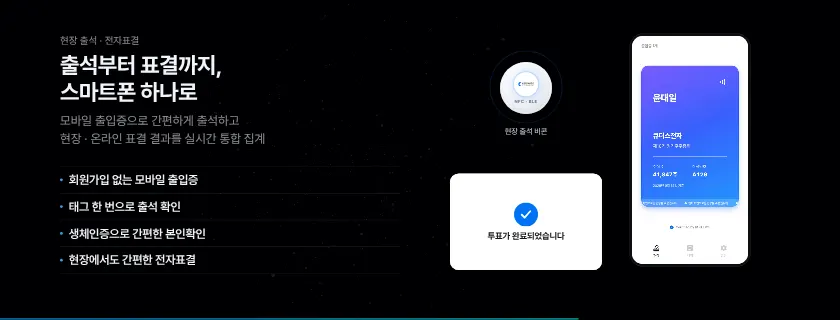
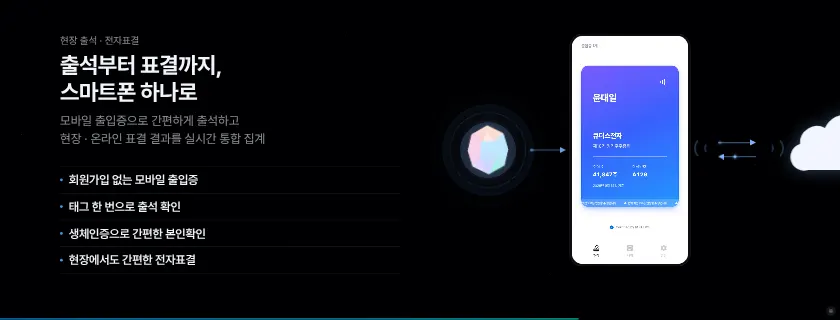
세션4 K24b 오른쪽 BLE 비콘 동작 원리 레이아웃 — 비콘 파동 → 휴대폰 ⇄ 클라우드(오른쪽 끝 2/3), 투표 카드 삭제
Claude-Session: https://claude.ai/code/session_01Mn7NmyW5iujmmHnaRBFKBZ

Changed region(s): [[0.5262, 0.0938, 0.8976, 0.8438], [0.9286, 0.3438, 1.0, 0.5625]]

diff --git a/session4.html b/session4.html
@@ -2133,6 +2133,63 @@ html.r169 #K24a .k24map{left:1540px!important;top:50px!important}
 #K26 .k26p .sc{padding-top:0!important}
 #K26 .k26p .sc::before{z-index:2}
 #K26 .k26p video{object-position:50% 0!important}
+
+/* 11/27 22:10 K24b 오른쪽: BLE 비콘 동작 원리 — 비콘(파동) → ID → 휴대폰 ⇄ 클라우드(오른쪽 끝 2/3만), 글자 없이 */
+#K24b .k24fl{position:absolute;left:2150px;top:170px;width:2050px;height:1160px;overflow:hidden}
+#K24b .k24fl .k24bv{left:700px!important;top:0!important}
+#K24b .k24fl .bk{position:absolute;left:150px;top:430px;width:300px;height:300px;display:flex;align-items:center;justify-content:center}
+#K24b .k24fl .bk .gm{position:relative;width:170px;height:204px;filter:drop-shadow(0 0 40px rgba(180,200,255,.45));z-index:2}
+#K24b .k24fl .bk .o{position:absolute;inset:-10px;border-radius:50%;border:3px dotted rgba(140,180,255,.45)}
+#K24b .k24fl .bk .r{position:absolute;inset:20px;border-radius:50%;background:radial-gradient(circle,rgba(90,162,255,.0) 40%,rgba(90,162,255,.28) 70%,rgba(90,162,255,0) 72%);opacity:0}
+.s.cur#K24b .k24fl .bk .r{animation:k24r 2.4s ease-out calc(var(--k)*.8s) infinite}
+@keyframes k24r{0%{transform:scale(.6);opacity:.9}100%{transform:scale(1.9);opacity:0}}
+.s.cur#K24b .k24fl .bk .gm{animation:k24gm 4s ease-in-out infinite}
+@keyframes k24gm{0%,100%{transform:translateY(0) rotate(-2deg)}50%{transform:translateY(-10px) rotate(2deg)}}
+.s.cur#K24b .k24fl .bk .o{animation:k24o 30s linear infinite}
+@keyframes k24o{to{transform:rotate(360deg)}}
+#K24b .k24fl .ar{position:absolute;height:6px}
+#K24b .k24fl .ar span{position:absolute;left:0;right:22px;top:2px;height:3px;background:rgba(140,190,255,.35)}
+#K24b .k24fl .ar span::after{content:"";position:absolute;left:0;top:-4px;width:12px;height:12px;border-radius:50%;background:#7fb6ff;box-shadow:0 0 18px #4fa0ff}
+#K24b .k24fl .ar b{position:absolute;right:0;top:-9px;width:0;height:0;border-left:24px solid #7fb6ff;border-top:12px solid transparent;border-bottom:12px solid transparent}
+#K24b .k24fl .a1{left:480px;top:577px;width:190px}
+.s.cur#K24b .k24fl .ar span::after{animation:k24dot 1.4s ease-in-out infinite}
+@keyframes k24dot{0%{left:0;opacity:0}15%{opacity:1}85%{opacity:1}100%{left:calc(100% - 12px);opacity:0}}
+#K24b .k24fl .ar2{position:absolute;left:1430px;top:530px;width:200px;height:100px}
+#K24b .k24fl .a2{left:0;top:20px;width:200px}
+#K24b .k24fl .a3{left:0;top:76px;width:200px;transform:scaleX(-1)}
+.s.cur#K24b .k24fl .a3 span::after{animation-delay:.7s}
+#K24b .k24fl .wv{position:absolute;top:520px;width:70px;height:120px}
+#K24b .k24fl .wv i{position:absolute;top:50%;border:6px solid #7fb6ff;border-radius:50%;border-color:transparent #7fb6ff transparent transparent;opacity:.25}
+#K24b .k24fl .wv i:nth-child(1){width:40px;height:40px;margin-top:-26px;left:0}
+#K24b .k24fl .wv i:nth-child(2){width:84px;height:84px;margin-top:-48px;left:-8px}
+#K24b .k24fl .wv.l{left:1340px;transform:scaleX(-1)}
+#K24b .k24fl .wv.r{left:1650px}
+.s.cur#K24b .k24fl .wv i{animation:k24wv 1.4s ease-in-out infinite}
+.s.cur#K24b .k24fl .wv i:nth-child(2){animation-delay:.25s}
+@keyframes k24wv{0%,100%{opacity:.2}50%{opacity:1}}
+#K24b .k24fl .cl{position:absolute;left:1740px;top:420px;width:470px;height:auto;overflow:visible}
+#K24b .k24fl .cl path{fill:#f2f6ff;filter:drop-shadow(0 0 40px rgba(127,182,255,.35))}
+.s.cur#K24b .k24fl .cl{animation:k24cl 5s ease-in-out infinite}
+@keyframes k24cl{0%,100%{translate:0 0}50%{translate:0 -12px}}
+#K24b .k24fl>*:not(.k24bv){opacity:0}
+.s.cur#K24b .k24fl>*:not(.k24bv){animation-name:none;opacity:1;transition:opacity .8s ease .8s}
+
+/* 11/27 22:15 K24b 흐름 요소 크게 — 비콘 · 화살표 · 신호 파동 */
+#K24b .k24fl .bk{left:110px;top:400px;width:360px;height:360px}
+#K24b .k24fl .bk .gm{width:210px;height:252px}
+#K24b .k24fl .ar span{height:5px;top:1px;background:rgba(140,190,255,.5)}
+#K24b .k24fl .ar span::after{width:16px;height:16px;top:-6px}
+#K24b .k24fl .ar b{border-left-width:30px;border-top-width:15px;border-bottom-width:15px;top:-12px}
+#K24b .k24fl .a1{left:500px;width:180px}
+#K24b .k24fl .ar2{left:1440px;width:190px;top:520px}
+#K24b .k24fl .a2,#K24b .k24fl .a3{width:190px}#K24b .k24fl .a3{top:90px}
+#K24b .k24fl .wv{top:500px;width:100px;height:160px}
+#K24b .k24fl .wv i{border-width:9px}
+#K24b .k24fl .wv i:nth-child(1){width:60px;height:60px;margin-top:-39px}
+#K24b .k24fl .wv i:nth-child(2){width:120px;height:120px;margin-top:-69px;left:-10px}
+#K24b .k24fl .wv.l{left:1330px}
+#K24b .k24fl .wv.r{left:1660px}
+#K24b .k24fl .cl{left:1770px;top:400px;width:520px}
 /* ═════ 16:9 버전 (?a=16x9, 11/27) ═════
    ※ 빔프로젝터(led.html?a=16x9) M7-7이 이 모드를 씀. 장을 고치면 ?a=16x9로도 확인하고, 21:8 원본 위치를 바꾸면 아래 html.r169 #Kxx 규칙도 같이 맞출 것.
       R169Z(묶음 축소) 장은 내용 범위를 자동으로 재서 배치하므로 대부분 따라감.
@@ -2590,8 +2647,15 @@ html.r169 #K28p .k28bg{top:800px}
   <p class="sub" style="margin-top:34px">모바일 출입증으로 간편하게 출석하고<br>현장 · 온라인 표결 결과를 실시간 통합 집계</p>
   <ul class="k24bl"><li>회원가입 없는 모바일 출입증</li><li>태그 한 번으로 출석 확인</li><li>생체인증으로 간편한 본인확인</li><li>현장에서도 간편한 전자표결</li></ul>
  </div>
- <div class="k24vk"><div class="bcn"><i class="w"></i><i class="w" style="--k:1"></i><i class="w" style="--k:2"></i><div class="pk"><span class="lg"><img src="assets/s4/kosmos-color.svg" alt=""></span><em>NFC · BLE</em></div><p>현장 출석 비콘</p></div><div class="vcd"><div class="vh"><small>제1호 의안</small><span class="lv">● 표결 중</span></div><b>재무제표 승인의 건</b><div class="ch"><span class="pro">찬성</span><span>반대</span><span>기권</span></div><div class="bt">투표하기</div><p class="dn"><i></i>투표가 완료되었습니다</p></div></div>
- <div class="phone k24bv" style="left:3100px;top:118px;width:706px;height:1364px"><div class="scr"><video class="k24bvid" src="assets/s4/onsite-vote.mp4" poster="assets/s4/onsite-vote.webp" muted loop playsinline preload="auto"></video></div></div>
+ <div class="k24fl">
+  <div class="bk"><i class="r" style="--k:0"></i><i class="r" style="--k:1"></i><i class="r" style="--k:2"></i><i class="o"></i><svg class="gm" viewBox="0 0 200 240"><defs><linearGradient id="k24g1" x1="0" y1="0" x2="1" y2="1"><stop offset="0" stop-color="#ffd6e8"/><stop offset=".5" stop-color="#c9d8ff"/><stop offset="1" stop-color="#9ff0e6"/></linearGradient><linearGradient id="k24g2" x1="1" y1="0" x2="0" y2="1"><stop offset="0" stop-color="#fff3c8"/><stop offset="1" stop-color="#ffc2d6"/></linearGradient><linearGradient id="k24g3" x1="0" y1="0" x2="0" y2="1"><stop offset="0" stop-color="#b7f3ff"/><stop offset="1" stop-color="#d8c8ff"/></linearGradient></defs><polygon points="100,4 176,44 196,120 176,196 100,236 24,196 4,120 24,44" fill="url(#k24g1)"/><polygon points="100,4 176,44 130,80 70,80 24,44" fill="url(#k24g2)" opacity=".9"/><polygon points="70,80 130,80 140,160 100,236 60,160" fill="url(#k24g3)" opacity=".85"/><polygon points="24,44 70,80 60,160 24,196 4,120" fill="#ffd0e4" opacity=".75"/><polygon points="176,44 196,120 176,196 140,160 130,80" fill="#bfe9ff" opacity=".75"/><polygon points="60,160 100,236 24,196" fill="#e9d6ff" opacity=".8"/><polygon points="140,160 176,196 100,236" fill="#a8f0e0" opacity=".8"/><polygon points="70,80 130,80 100,40" fill="#fff" opacity=".55"/></svg></div>
+  <div class="ar a1"><span></span><b></b></div>
+  <div class="phone k24bv" style="left:3100px;top:118px;width:706px;height:1364px"><div class="scr"><video class="k24bvid" src="assets/s4/onsite-vote.mp4" poster="assets/s4/onsite-vote.webp" muted loop playsinline preload="auto"></video></div></div>
+  <div class="wv l"><i></i><i></i></div>
+  <div class="ar2"><div class="ar a2"><span></span><b></b></div><div class="ar a3"><span></span><b></b></div></div>
+  <div class="wv r"><i></i><i></i></div>
+  <svg class="cl" viewBox="0 0 520 320"><path d="M120 280h300a90 90 0 0 0 12-179A120 120 0 0 0 205 70 85 85 0 0 0 80 150a65 65 0 0 0 40 130z"/></svg>
+ </div>
 </section>
 
 <section class="s" id="K24c" data-t="생중계" data-dim="0">

diff --git a/sw.js b/sw.js
@@ -1,5 +1,5 @@
 /* 오프라인 캐시 — 온라인 주소(https)로 한 번 열면 모든 파일을 저장해 두고, 통신이 끊겨도 저장본으로 동작합니다. */
-const V='seminar-screen-11272205';
+const V='seminar-screen-11272207';
 const FILES=["./","assets/KakaoBigSans-Bold.woff2","assets/KakaoBigSans-Regular.woff2","assets/KakaoSmallSans-Bold.woff2","assets/KakaoSmallSans-Light.woff2","assets/KakaoSmallSans-Regular.woff2","assets/OrbitControls.js","assets/PretendardVariable.woff2","assets/attendees.js","assets/blue-bloom.html","assets/cong1.webp","assets/cong2.webp","assets/ds-bg.html","assets/four-states.html","assets/intro.mp4","assets/irk-white.svg","assets/irk-wordmark-white.svg","assets/kism-intro.mp4","assets/kism-white.svg","assets/ksmp-white.svg","assets/panel.js","assets/qa-online.js","assets/s2/img1.png","assets/s2/img2.png","assets/s2/img3.png","assets/s2/img4.png","assets/s4/aws.webp","assets/s4/callcenter.webp","assets/s4/chair-1.webp","assets/s4/chair-2.webp","assets/s4/chair-3.webp","assets/s4/conexus-word.webp","assets/s4/ctl-1.webp","assets/s4/cx-1.webp","assets/s4/cx-2.webp","assets/s4/cx-3.webp","assets/s4/cx-flow.mp4","assets/s4/cx-pop1.webp","assets/s4/cx-pop2.webp","assets/s4/cx-vote.mp4","assets/s4/cx-vote.webp","assets/s4/cxs-1.webp","assets/s4/insurance.webp","assets/s4/isms-t.webp","assets/s4/isms.webp","assets/s4/ismsp-t.webp","assets/s4/ismsp.webp","assets/s4/kosmos-white.png","assets/s4/ks-1.webp","assets/s4/ks-2.webp","assets/s4/ks-3.webp","assets/s4/ks-4.webp","assets/s4/ks-5.webp","assets/s4/ks-video.webp","assets/s4/live-1.webp","assets/s4/live-2.webp","assets/s4/live-3.webp","assets/s4/live-4.webp","assets/s4/live-5.webp","assets/s4/live-6.webp","assets/s4/live-7.webp","assets/s4/live-8.webp","assets/s4/logos.webp","assets/s4/ocr-1.webp","assets/s4/ocr-2.webp","assets/s4/ocr-3.webp","assets/s4/ocr-4.webp","assets/s4/ocr-5.webp","assets/s4/on-1.png","assets/s4/on-2.webp","assets/s4/on-3.webp","assets/s4/on-4.png","assets/s4/on-5.webp","assets/s4/onboard-1.webp","assets/s4/onboard-2.webp","assets/s4/privacy.webp","assets/s4/proxymity.svg","assets/s4/rehearsal.webp","assets/s4/streaming-korea.webp","assets/s4/tab-1.webp","assets/s4/tab-2.webp","assets/s4/team.webp","assets/sched.js","assets/screen-title-2.svg","assets/screen-title-b-text.svg","assets/screen-title-b.svg","assets/seat-banners.js","assets/seat-fascia.js","assets/seat-screen.js","assets/seatmap.js","assets/service-intro.mp4","assets/speaker-scott.webp","assets/speaker1-1.webp","assets/speaker2.webp","assets/speaker3-1.webp","assets/supabase.min.js","assets/three.min.js","assets/title-logos.svg","control.html","index-fs.html","index.html","kism.html","lobby/cuts.html","lobby/index.html","mc.html","session2.html","session4.html","sw.js","tools/s2_build.py","tools/s2_shell.html","assets/s3/p01.webp","assets/s3/p02.webp","assets/s3/p03.webp","assets/s3/p04.webp","assets/s3/p05.webp","assets/s3/p06.webp","assets/s3/p07.webp","assets/s3/p08.webp","assets/s3/p09.webp","assets/s3/p10.webp","assets/s3/p11.webp","assets/s3/p12.webp","assets/s3/p13.webp","assets/s3/p14.webp","assets/s3/p15.webp","assets/s3/p16.webp","assets/s3/p17.webp","assets/s3/p18.webp","assets/s3/p19.webp","assets/s3/p20.webp","assets/s3/p21.webp","assets/s3/p22.webp","assets/s3/p23.webp","assets/kism/photo-main.webp","assets/kism/photo-2.webp","assets/kism/photo-3.webp","assets/kism/photo-4.webp","assets/sound/countdown-tick.mp3","assets/sound/sfx-s3-part.mp3","assets/sound/sfx-s4-reveal.mp3","assets/sound/sfx-s5-proxymity.mp3","assets/sound/sfx-s6-chime.mp3","assets/sound/sfx-s7-close.mp3","assets/sound/sfx-k-chapter.mp3","assets/sound/sfx-k-close.mp3","assets/sound/opening-hit.mp3","assets/s4/kosmos-color.svg","assets/s4/ke-logo.png","assets/s4/ke-live.mp4","assets/kism/kwon-talk.mp4","assets/kism/manual-book.webp","kism-open.html","kism_16x9.html","led.html","assets/s4/cx-ops.mp4","assets/s4/cx-ops.webp","assets/s4/agent-app.mp4","assets/s4/kosmos-web.webp","assets/s4/ks-attend.mp4","assets/s4/ks-attend.webp","assets/s4/ks-switch.mp4","assets/s4/ks-switch.webp","assets/s4/ks-notify.mp4","assets/s4/ks-notify.webp","assets/s4/ks-vote.mp4","assets/s4/ks-vote.webp","assets/s4/ks-qna.mp4","assets/s4/ks-qna.webp","assets/s4/pc-map.webp","assets/s4/pc-map.mp4","assets/s4/pc-web.mp4","assets/s4/pc-web.webp","assets/s4/agent-app.webp","assets/s4/k24b-bg.webp","session0.html","face.html","assets/face-link.js","assets/kism/photo-main-cut.webp","assets/s4/cx-chair.mp4","assets/s4/cx-chair.webp","assets/s4/cx-test.mp4","assets/s4/cx-test.webp","assets/s4/onboard-mgr.webp","assets/s4/proxymity-logo.png","assets/s4/k21-bg.webp","assets/s4/kosmos-admin-white.svg","assets/kism-intro-16x9.mp4","assets/seat-guide.html","assets/s4/app-icon-agent.svg","assets/ds-main.mp4","assets/s4/k2-agency.webp","assets/s4/k2-support.webp","assets/s4/thumbs/K00.webp","assets/s4/thumbs/K01.webp","assets/s4/thumbs/K02.webp","assets/s4/thumbs/K03.webp","assets/s4/thumbs/K04.webp","assets/s4/thumbs/K05.webp","assets/s4/thumbs/K06.webp","assets/s4/thumbs/K07.webp","assets/s4/thumbs/K08.webp","assets/s4/thumbs/K09.webp","assets/s4/thumbs/K10.webp","assets/s4/thumbs/K11.webp","assets/s4/thumbs/K12.webp","assets/s4/thumbs/K13.webp","assets/s4/thumbs/K14.webp","assets/s4/thumbs/K15.webp","assets/s4/thumbs/K16.webp","assets/s4/thumbs/K17.webp","assets/s4/thumbs/K18a.webp","assets/s4/thumbs/K18b.webp","assets/s4/thumbs/K18c.webp","assets/s4/thumbs/K19.webp","assets/s4/thumbs/K19b.webp","assets/s4/thumbs/K19c.webp","assets/s4/thumbs/K20.webp","assets/s4/thumbs/K21.webp","assets/s4/thumbs/K21b.webp","assets/s4/thumbs/K22s.webp","assets/s4/thumbs/K23.webp","assets/s4/thumbs/K23b.webp","assets/s4/thumbs/K24a.webp","assets/s4/thumbs/K24b.webp","assets/s4/thumbs/K24c.webp","assets/s4/thumbs/K25.webp","assets/s4/thumbs/K25b.webp","assets/s4/thumbs/K26.webp","assets/s4/thumbs/K27.webp","assets/s4/thumbs/K28a.webp","assets/s4/thumbs/K28b.webp","assets/s4/thumbs/K28c.webp","assets/s4/thumbs/K28d.webp","assets/s4/thumbs/K29.webp","assets/s4/thumbs/K30.webp","assets/s4/thumbs/K09b.webp","assets/s4/thumbs/K28e.webp","assets/s4/thumbs/K28p.webp","assets/s4/onsite-vote.mp4","assets/s4/onsite-vote.webp","assets/s4/rehearsal-site.webp","assets/qr-ask.svg","assets/inv/bnp.png","assets/inv/bny.png","assets/inv/citi.png","assets/inv/computershare.png","assets/inv/deutsche-bank.png","assets/inv/deutsche-boerse.png","assets/inv/euroclear.png","assets/inv/hsbc.png","assets/inv/jpmorgan.png","assets/inv/mufg.png","assets/inv/state-street.png","assets/proxymity-logo.png","assets/sound/break-bgm.mp3","assets/sound/wait-bgm.mp3"];
 self.addEventListener('install',e=>{e.waitUntil(caches.open(V).then(c=>c.addAll(FILES)).then(()=>self.skipWaiting()));});
 self.addEventListener('activate',e=>{e.waitUntil(caches.keys().then(ks=>Promise.all(ks.filter(k=>k!==V).map(k=>caches.delete(k)))).then(()=>self.clients.claim()));});
